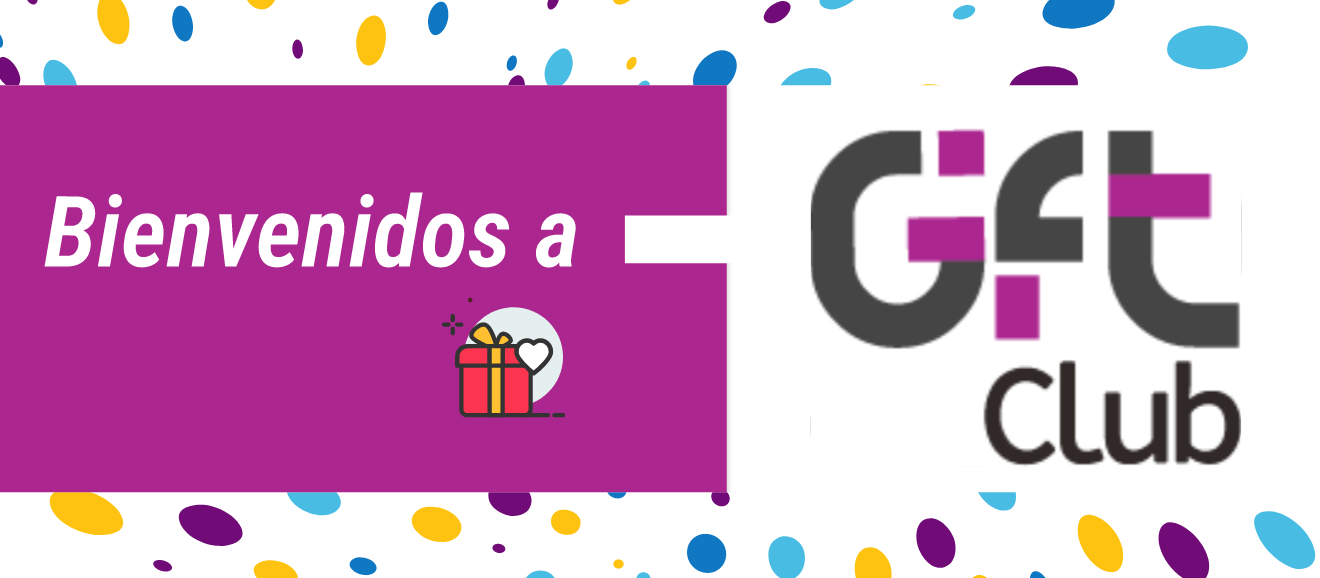
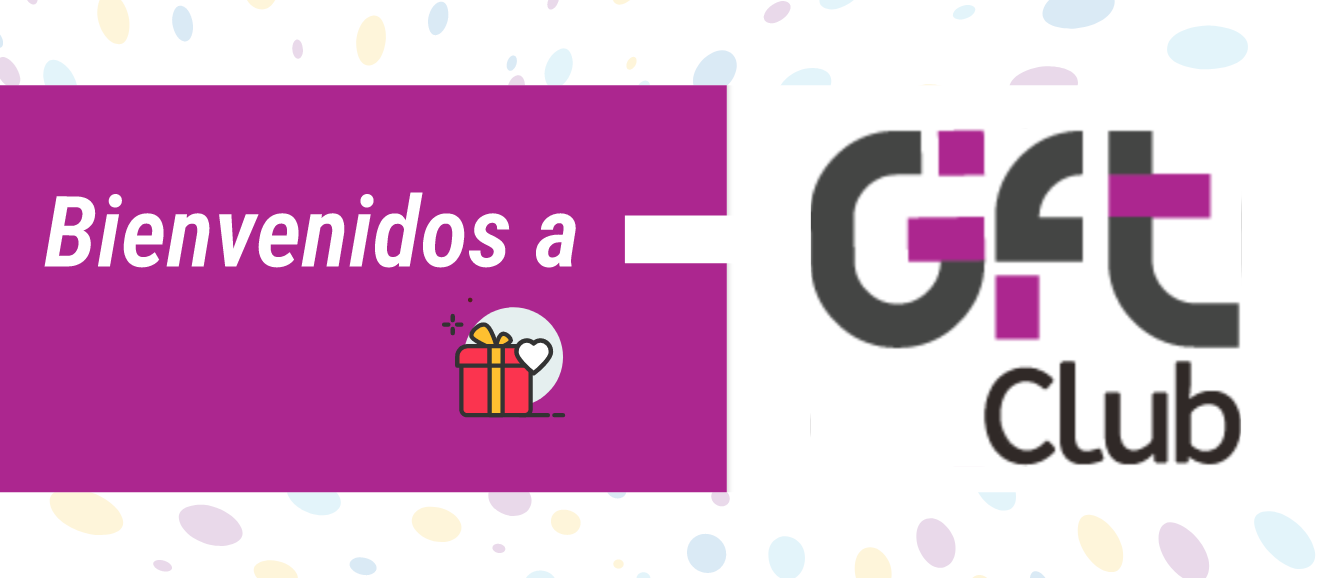
EDIT: Sliders del carousel.

diff --git a/frontend/src/components/CarouselOfi.jsx b/frontend/src/components/CarouselOfi.jsx
@@ -17,7 +17,7 @@ export default function CarouselOfi() {
       <MDBCarouselItem
         className='w-100 d-block'
         itemId={2}
-        src='https://ik.imagekit.io/tjlqeq3ql/GiftClub/_Bienvenido_a_GIFTCLUB__OyitpXYS5.png?ik-sdk-version=javascript-1.4.3&updatedAt=1670031312145'
+        src='src/assets/slider_2.png'
         alt='...'
       >
       </MDBCarouselItem>
